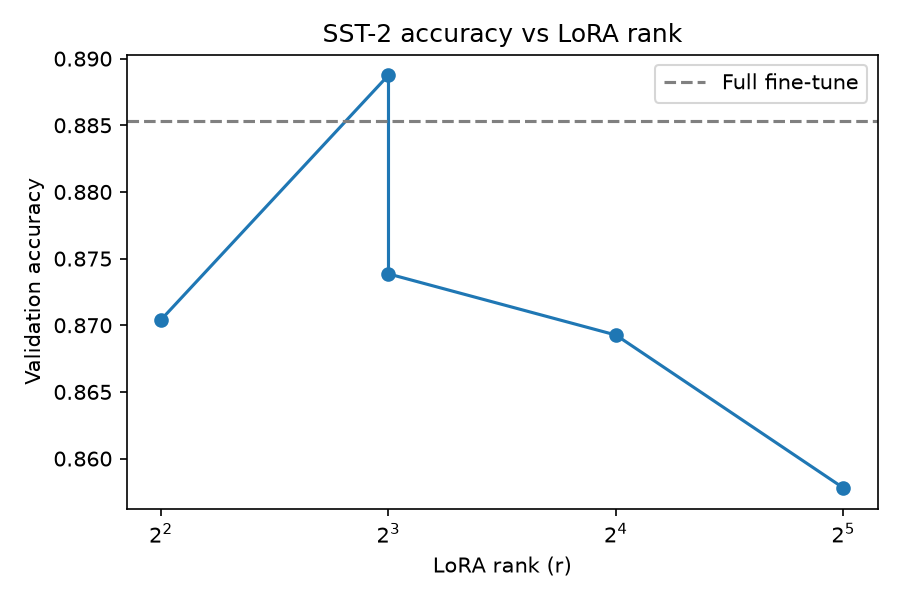
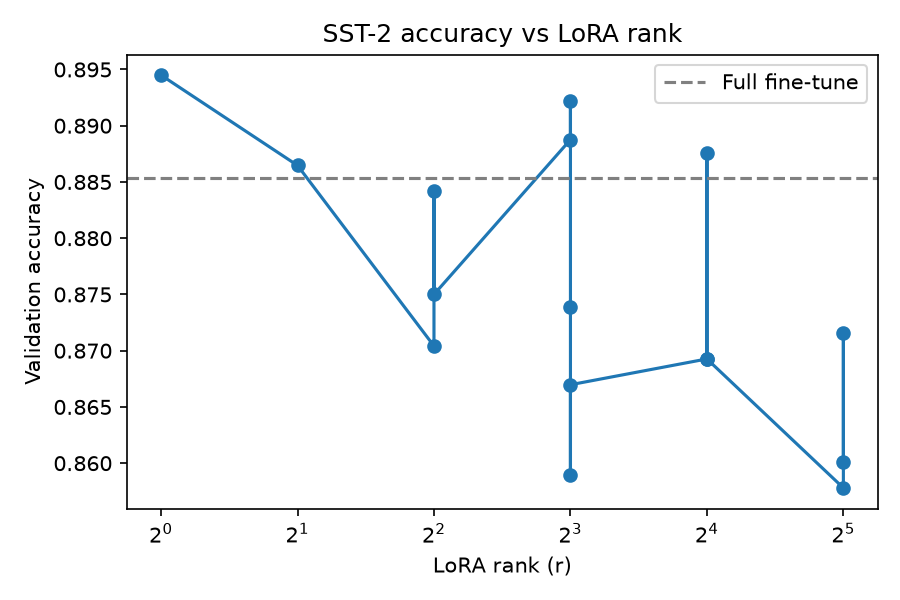
correcting the final commit added a time comparison between before and after merging. Added a distinctions in the name of the files where train and ablations store the lora checkpoint so merge verfy doesn't confuse them like earlier.

diff --git a/implementations/LoRA/merge_verify.py b/implementations/LoRA/merge_verify.py
@@ -1,12 +1,22 @@
+import time
 import torch
 from train import build_model
 from data import get_dataloaders
 from lora import merge_lora
 
+def bench(model, batch, n=50):
+    torch.cuda.synchronize()
+    t0 = time.time()
+    with torch.no_grad():
+        for _ in range(n):
+            model(**batch)
+    torch.cuda.synchronize()
+    return (time.time() - t0) / n
+
 def verify_merge():
     device = "cuda" if torch.cuda.is_available() else "cpu"
     model = build_model("lora", r=8, alpha=16).to(device)
-    model.load_state_dict(torch.load("results/lora_checkpoint.pt", map_location=device))
+    model.load_state_dict(torch.load("results/lora_checkpoint_r{r}_{modules_tag}.pt", map_location=device))
     model.eval()
 
     _, val_dl = get_dataloaders()
@@ -16,24 +26,27 @@ def verify_merge():
     with torch.no_grad():
         logits_before = model(**batch).logits.clone()
 
+    for _ in range(5):
+        with torch.no_grad():
+            model(**batch)
+
+    t_unmerged = bench(model, batch)
     merge_lora(model)
 
     with torch.no_grad():
         logits_after = model(**batch).logits
+
+    t_merged = bench(model, batch)
 
     max_diff = (logits_before - logits_after).abs().max().item()
     print(f"Max logit difference after merge: {max_diff:.2e}")
     assert max_diff < 1e-4, "Merge is not numerically equivalent!"
     print("Merge verified: identical outputs, zero inference overhead confirmed.")
 
+    print(f"Unmerged forward pass: {t_unmerged * 1000:.3f} ms/iter")
+    print(f"Merged forward pass:   {t_merged * 1000:.3f} ms/iter")
+    speedup = t_unmerged / t_merged
+    print(f"Speedup: {speedup:.2f}x")
+
 if __name__ == "__main__":
     verify_merge()
-
-import time
-def bench(model, batch, n=50):
-    torch.cuda.synchronize()
-    t0 = time.time()
-    with torch.no_grad():
-        for _ in range(n): model(**batch)
-    torch.cuda.synchronize()
-    return (time.time() - t0) / n

diff --git a/implementations/LoRA/plot_results.py b/implementations/LoRA/plot_results.py
@@ -22,3 +22,15 @@ plt.ylabel("Trainable parameters (log scale)")
 plt.title("Trainable parameters by method")
 plt.tight_layout()
 plt.savefig("results/plots/param_comparison.png", dpi=150)
+
+# isolate the clean rank sweep: only q_lin+v_lin rows
+rank_sweep_df = df[(df["mode"] == "lora") & (df["target_modules"] == "q_lin+v_lin")].sort_values("r")
+
+plt.figure(figsize=(6,4))
+plt.plot(rank_sweep_df["r"], rank_sweep_df["val_accuracy"], marker="o")
+plt.axhline(df[df["mode"]=="full"]["val_accuracy"].iloc[0], color="gray", linestyle="--", label="Full fine-tune")
+plt.xscale("log", base=2)
+plt.xlabel("LoRA rank (r)"); plt.ylabel("Validation accuracy")
+plt.title("SST-2 accuracy vs LoRA rank (q_lin + v_lin only)")
+plt.legend(); plt.tight_layout()
+plt.savefig("results/plots/rank_vs_accuracy_isolated.png", dpi=150)

diff --git a/implementations/LoRA/train.py b/implementations/LoRA/train.py
@@ -54,7 +54,7 @@ def train(mode, epochs=3, lr=None, subset_size=None, r=8, alpha=16, target_modul
                   peak_mem_mb=peak_mem_mb, train_time_s=train_time, val_accuracy=acc)
     log_result(result, log_path)
     if mode == "lora":
-        torch.save(model.state_dict(), "results/lora_checkpoint.pt")
+        torch.save(model.state_dict(), "results/lora_checkpoint_r{r}_{modules_tag}.pt")
     return model, result
 
 

diff --git a/implementations/LoRA/ablations.py b/implementations/LoRA/ablations.py
@@ -18,3 +18,7 @@ rank_by_config = {
 for name, modules in configs.items():
     r = rank_by_config[name]
     train("lora", epochs=3, subset_size=20000, r=r, alpha=2*r, target_modules=modules)
+
+for r in [1, 2, 4, 8, 16, 32]:
+    train("lora", epochs=3, subset_size=20000, r=r, alpha=2*r,
+          target_modules=("q_lin", "v_lin"))
